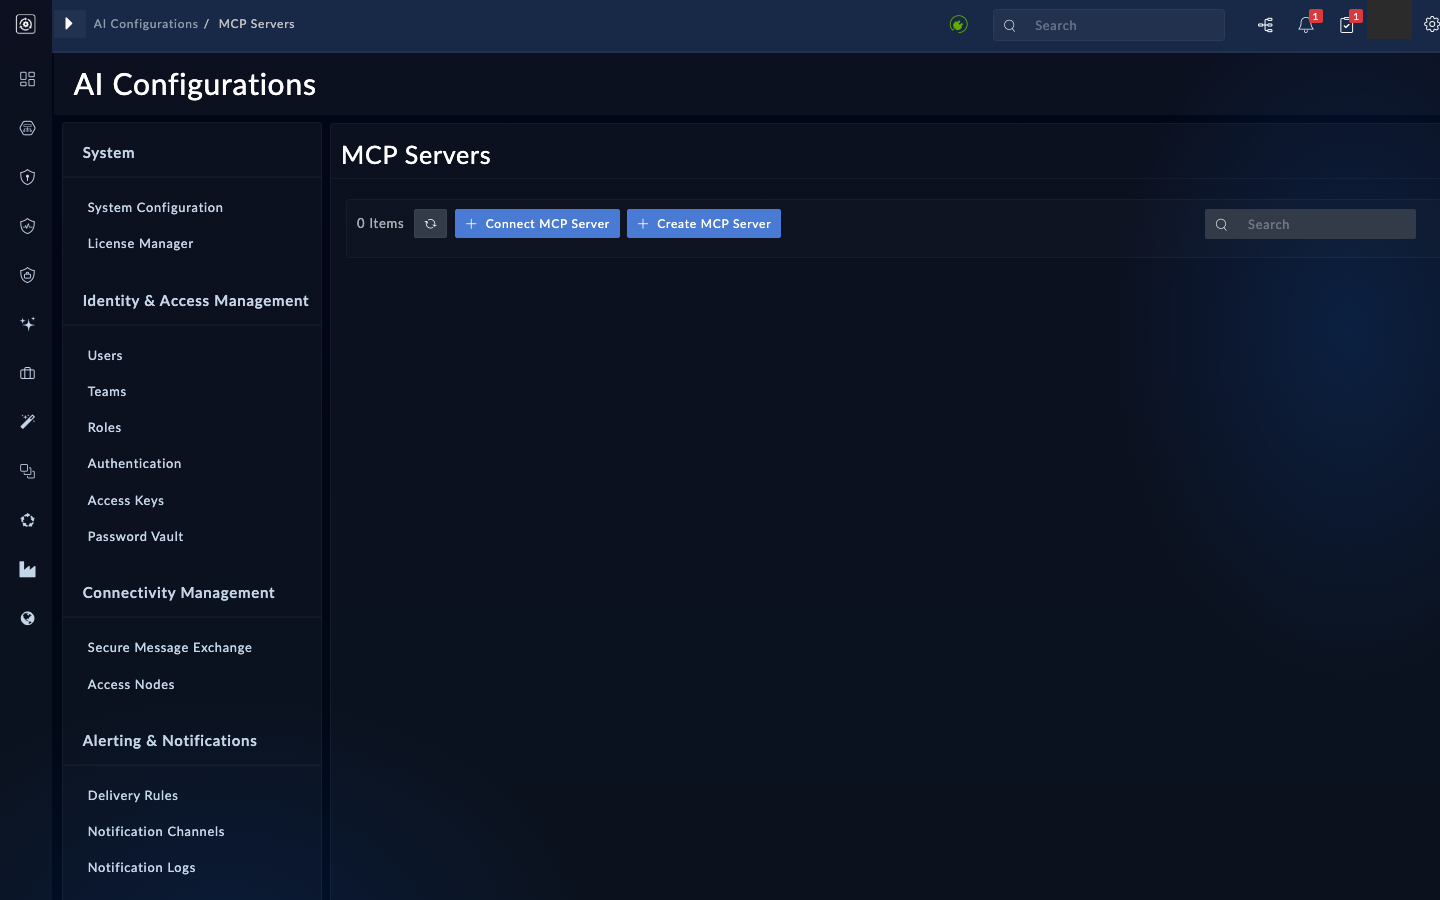
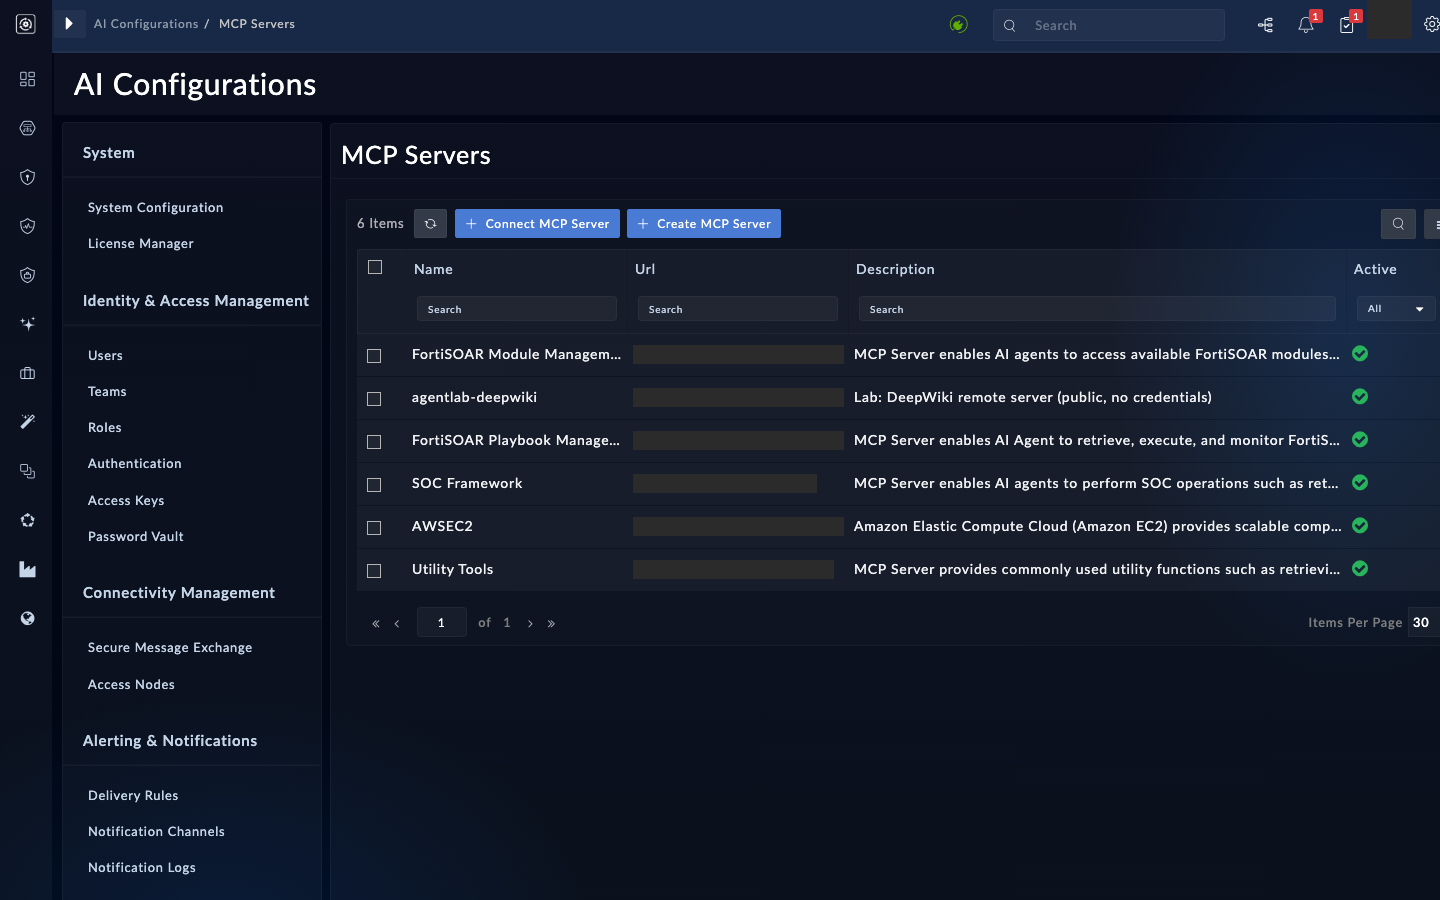
content+tools(ch05): the Connect form has a required auth_type after transport=http; make the DeepWiki spec complete and clean up

diff --git a/tools/e2e/captures/ch05.spec.js b/tools/e2e/captures/ch05.spec.js
@@ -1,6 +1,9 @@
 "use strict";
-// Chapter 5 captures: the MCP servers list the register page points at. No FortiAI
-// spend. The allowlist capture (fsa05-02) needs an agent run and stays pending.
+// Chapter 5 steps and captures: register the lab's remote MCP server through the Connect MCP
+// Server form (validate, then save), check its row, capture the list, then remove it so the
+// box is left as found. The server is the public DeepWiki endpoint with no authentication,
+// under a lab-only name. No FortiAI spend: nothing here runs an agent. The agent allowlist
+// steps (fsa05-04/05) stay manual because they need the chapter 4 agent.
 const { test, expect } = require("@playwright/test");
 const { openSession } = require("../lib/harness");
 const { shotPanel, settle } = require("./lib/shots");
@@ -8,13 +11,84 @@ const { shotPanel, settle } = require("./lib/shots");
 test.describe.configure({ mode: "serial" });
 test.setTimeout(10 * 60 * 1000);
 
+const NAME = "agentlab-deepwiki";
+const URL = "https://mcp.deepwiki.com/mcp";
+const LIST = "/ai-configuration/mcp-servers";
+
+async function openList(page, base) {
+  await page.goto(`${base}${LIST}`, { waitUntil: "domcontentloaded" });
+  await settle(page);
+}
+
+/** Delete the lab server through the grid selection and the Delete toolbar button. No-op if absent. */
+async function removeLabServer(page, base) {
+  await openList(page, base);
+  // The grid fills after the page settles; give a present row time to render before concluding it is absent.
+  const present = await page.getByText(NAME, { exact: true }).first()
+    .waitFor({ timeout: 15000 }).then(() => true, () => false);
+  if (!present) return false;
+  // ui-grid renders a pinned selection column (header box first, then one box per row) apart
+  // from the data rows, so the row's box is its data-row index plus one.
+  const rows = page.locator(".ui-grid-row");
+  const names = await rows.evaluateAll((rs) => rs.map((r) => r.innerText));
+  const dataRows = names.filter((t) => t.trim());
+  const idx = dataRows.findIndex((t) => t.includes(NAME));
+  expect(idx, "the lab server is in the grid").toBeGreaterThanOrEqual(0);
+  await page.locator(".ui-grid-selection-row-header-buttons").nth(idx + 1).click();
+  // Refuse to delete anything but the lab server: exactly one data row may be selected.
+  const selectedRows = () => page.locator(".ui-grid-row-selected").evaluateAll((rs) => rs.map((r) => r.innerText.trim()).filter(Boolean));
+  await expect.poll(async () => (await selectedRows()).length, { message: `row ${idx} of ${dataRows.length} selected`, timeout: 10000 }).toBe(1);
+  expect((await selectedRows())[0]).toContain(NAME);
+  await page.locator("button", { hasText: /^\s*Delete\s*$/ }).first().click({ timeout: 15000 });
+  const confirm = page.locator(".modal-content").getByRole("button", { name: /^(Yes|Confirm|Delete|OK)$/ });
+  await confirm.last().click({ timeout: 15000 });
+  await settle(page, 2000);
+  await openList(page, base);
+  await expect(page.getByText(NAME, { exact: true })).toHaveCount(0, { timeout: 20000 });
+  return true;
+}
+
 test("05-register-mcp-servers", async () => {
   const s = await openSession();
   const page = s.page;
+  // A Playwright action on a control that never enables waits forever without a timeout.
+  page.setDefaultTimeout(30000);
   try {
-    await page.goto(`${s.base}/ai-configuration/mcp-servers`, { waitUntil: "domcontentloaded" });
-    await settle(page);
-    await expect(page.getByText("Connect MCP Server").first()).toBeVisible();
+    // A leftover from an interrupted run would make the name collide ("already exists").
+    await removeLabServer(page, s.base);
+
+    await test.step("fsa05-01-validate-register", async () => {
+      await openList(page, s.base);
+      await page.getByRole("button", { name: /Connect MCP Server/ }).click();
+      const modal = page.locator(".modal-content");
+      await modal.locator("input[type=text]").first().fill(NAME);
+      await modal.locator("textarea[name=description]").fill("Lab: DeepWiki remote server (public, no credentials)");
+      await modal.locator("select[name=transport]").selectOption("http");
+      await modal.locator("input[type=url]").fill(URL);
+      // After transport=http the form shows a required auth_type select; DeepWiki takes None.
+      const auth = modal.locator("select[name=auth_type]");
+      await expect(auth).toBeVisible();
+      await auth.selectOption({ label: "None" });
+      const test_ = modal.getByRole("button", { name: "Test Connection" });
+      await expect(test_).toBeEnabled();
+      await test_.click();
+      // Save stays disabled until the handshake succeeds, so its enabled state is the proof.
+      const save = modal.getByRole("button", { name: "Save" });
+      await expect(save).toBeEnabled({ timeout: 120000 });
+      await save.click();
+      await settle(page, 2000);
+    });
+
+    await test.step("fsa05-02-status-check", async () => {
+      await openList(page, s.base);
+      await expect(page.getByText(NAME, { exact: true }).first()).toBeVisible({ timeout: 30000 });
+    });
+
+    await test.step("fsa05-03-register-remote", async () => {
+      // Registration was proven by fsa05-01; this step reads the stored row back from the list.
+      await expect(page.getByText(NAME, { exact: true }).first()).toBeVisible();
+    });
+
     await shotPanel(page, {
       chapter: "05-register-mcp-servers",
       id: "fsa05-01-mcp-servers-page",
@@ -25,6 +99,7 @@ test("05-register-mcp-servers", async () => {
       mask: ["[ng-bind*='url']", "[ng-bind*='Url']", "[ng-bind*='description']"],
     });
   } finally {
-    await s.close();
+    // Always leave the box as found, even when a step failed.
+    try { await removeLabServer(page, s.base); } finally { await s.close(); }
   }
 });

diff --git a/content/05-register-mcp-servers/01-mcp-and-registration.md b/content/05-register-mcp-servers/01-mcp-and-registration.md
@@ -35,7 +35,7 @@ Use HTTP, meaning streamable HTTP, for every server in this workshop. The `sse` 
 
 Type names may be case-sensitive. Try the lowercase form first, and check the list on your build (NLV-05-02).
 
-On the build this page was checked against, the **Connect New MCP Server** form offers only the `http` transport and has no authentication field (NLV-05-02, NLV-05-03). The table above and the rule in section 3 describe the stored record. Check them against your build before you rely on them.
+On the build this page was checked against, the **Connect New MCP Server** form offers only the `http` transport. Once you choose it, a required **Auth Type** select appears, and the form will not validate until you pick a value (NLV-05-02, NLV-05-03). Choose **None** for a public server such as DeepWiki. The table above and the rule in section 3 describe the stored record. Check the list of types against your build before you rely on it.
 
 The `fsr` type passes the caller's own FortiSOAR token through, as the built-in servers do. A static token gives every call the same identity, so one shared token means one shared identity (NLV-05-11). Choose the type with that trade-off in mind.
 
@@ -83,7 +83,7 @@ The registration has four steps. Do not skip the first one.
 
 <!-- step: fsa05-01-validate-register manual: Connect MCP Server form with a live Test Connection to an external server; no spec yet -->
 
-Open **AI Configurations** > **MCP Servers** (NLV-05-01). Click **Connect MCP Server**. The panel asks for a server name, an optional description, a transport type (HTTP is the only option on this build), and the URL. It has no authentication field, so this form cannot set one (NLV-05-03). Click **Test Connection** first, and read the tool names it returns. Only then click **Save**. The **Create MCP Server** button opens a different dialog with a configuration selector; do not use it for this step.
+Open **AI Configurations** > **MCP Servers** (NLV-05-01). Click **Connect MCP Server**. The panel asks for a server name, an optional description, a transport type (HTTP is the only option on this build), and the URL. After you choose HTTP, a required **Auth Type** select appears; pick **None** for DeepWiki (NLV-05-03). Click **Test Connection** first, and read the tool names it returns. Only then click **Save**. The **Create MCP Server** button opens a different dialog with a configuration selector; do not use it for this step.
 
 <!-- capture: fsa05-01-mcp-servers-page -->
 ![fsa05-01-mcp-servers-page](fsa05-01-mcp-servers-page.png)
@@ -120,7 +120,7 @@ If the status route fails for every server after you save, the most likely cause
 <!-- NLV verdicts (live box pass):
   verified: NLV-05-01 (AI Configurations > MCP Servers; buttons are Connect MCP Server and Create MCP Server; corrected in this page).
   corrected: NLV-05-02 (the transport select offers only http on this build).
-  verified-absent: NLV-05-03 (no authentication field in the Connect form; the full auth type list could not be read from the UI).
+  corrected: NLV-05-03 (the Connect form shows a required auth_type select after transport=http; None is right for DeepWiki; the full type list is not yet read from the UI).
   partly: NLV-05-04 (Test Connection exists as the validate step; the persist route was not exercised).
   open: NLV-05-05, NLV-05-06 (need a row write and a status check), NLV-05-07 (headers, not run), NLV-05-08 (system connector restriction, not run), NLV-05-11 (fsr identity, not run), NLV-05-12 (transport list beyond http, not checked). -->
 
